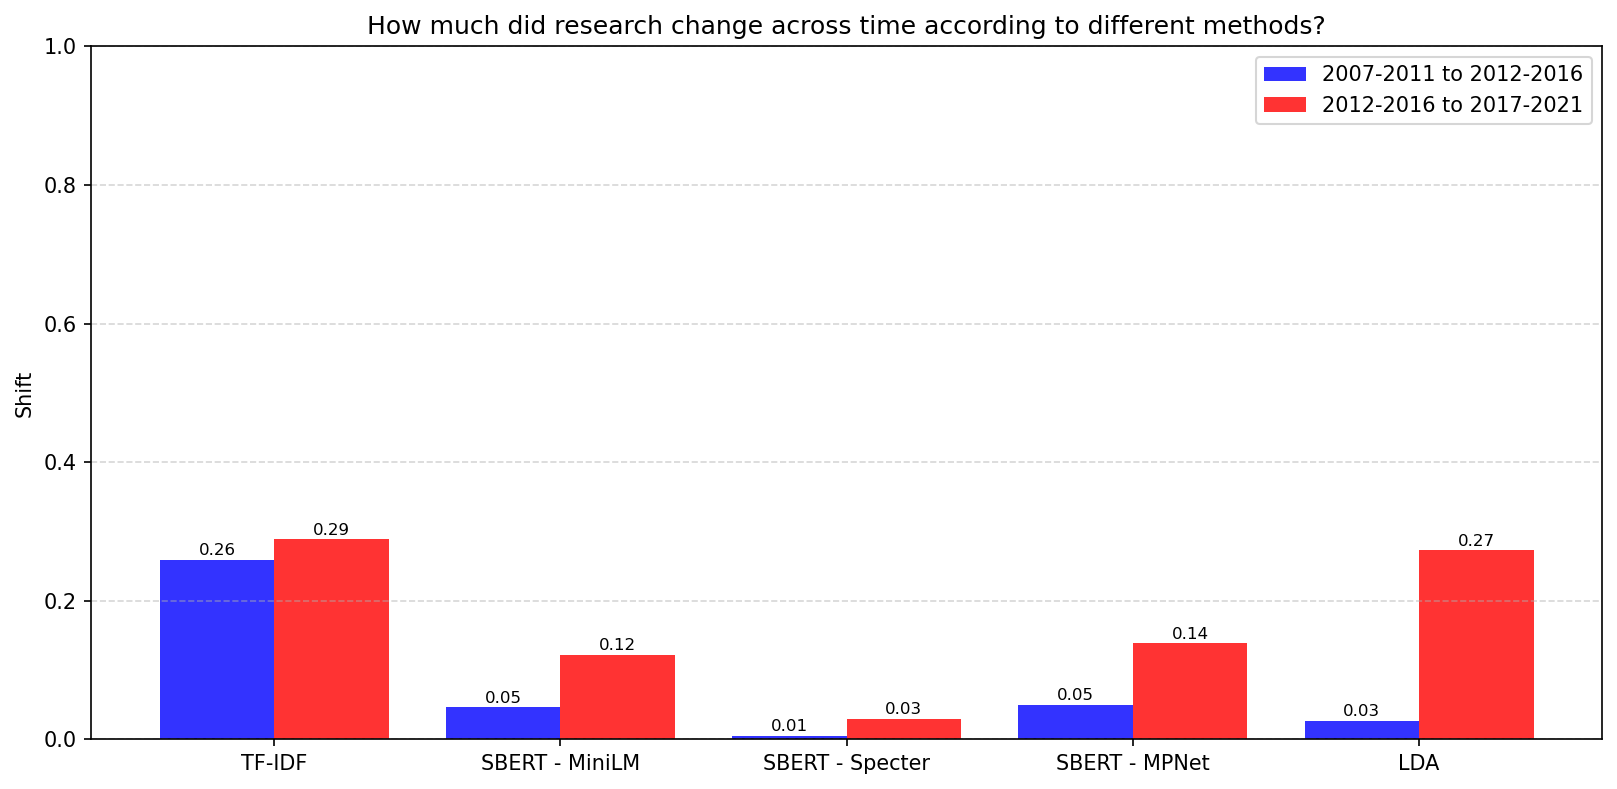
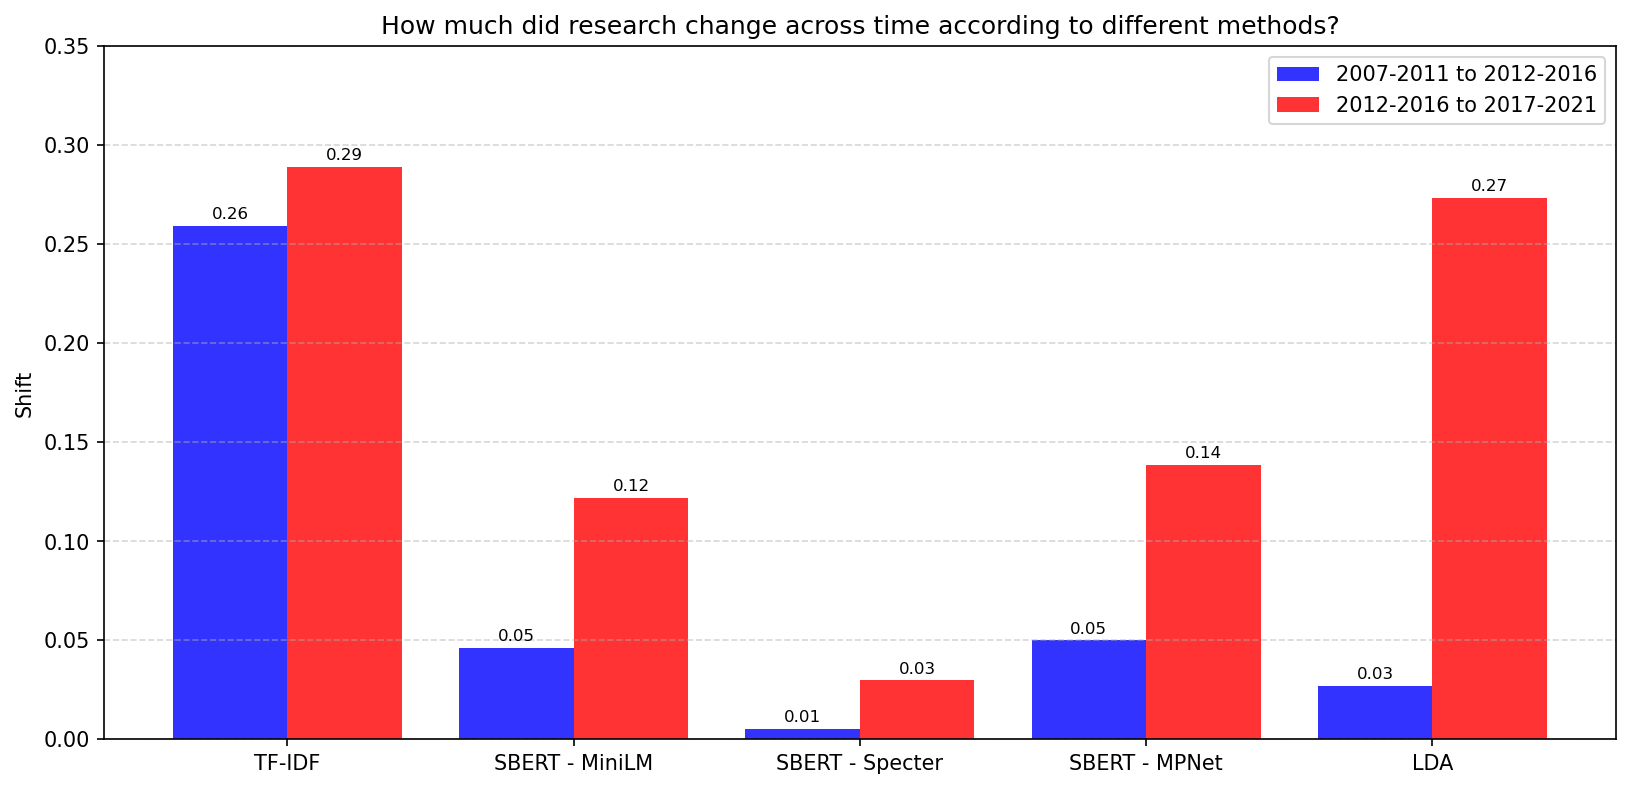
Updates from Overleaf

diff --git a/Report/coursework_report.tex b/Report/coursework_report.tex
@@ -20,9 +20,9 @@
 \author{%
   Nithya Dharshini Uthayasankar \\ 2789572 \And
   Rohan Bhardwaj \\ 2827658\And
-  Clarence Zhen Jin Tan\And
-  Lingjuan Shu \And
-  Taojie Chen \\[4pt]
+  Clarence Zhen Jin Tan\\ 2828537 \And
+  Lingjuan Shu \\ 2739919 \And
+  Taojie Chen \\ 2764623 \\ [4pt]
   Department of Data Science,
   University of Bristol
 }
@@ -42,7 +42,7 @@ This makes AI-related scientific literature a useful source for analysis especia
 To efficiently analyse the scientific abstracts, this project has employed comparative corpus analysis so that changes in vocabulary, dominant methods, and research contributions can be efficiently examined over time. Firstly, datasets related to ML, NLP and AI have been obtained from the HuggingFace arXiv abstracts dataset which contains useful metadata like abstracts and publication years \cite{huggingfaceGfissorearxivabstracts2021Datasets}.
 The corpus contains 27121 abstracts and has been carried for preprocessing to better compare the changes in research across the different periods, whereby the corpus has been divided into three five-year periods since research in artificial intelligence only surged especially after 2010 \cite{cao2026decreasing}.
 The period 2007-2011 contains 1,268 abstracts , the period 2012-2016 contains 5,542 abstracts, and the period 2017-2021 contains 20311 abstracts. This grouping allows the early, middle, and more recent stages of development in research related to AI to be compared.
-The Initial analysis of the dataset reveals frequencies of terms associated with AI increases over time. For instance, as later shown in Figure~\ref{fig:lda_topics} it reveals that the abstracts with terms associated with optimisation, probabilistic modelling and statistical approaches in pre-2017 while post-2017 shows an increase in abstracts with terms associated with neural-based, language-based, and learning-based approaches. Hence, this analysis concludes how the research areas in AI have been shifted over the years and how the abstracts in later periods have reflected the rise of deep learning and language-based methods \cite{feng2024evolution}. 
+The Initial analysis of the dataset reveals frequencies of terms associated with AI increases over time. For instance, as shown in Figure~\ref{fig:lda_topics} it reveals that the abstracts with terms associated with optimisation, probabilistic modelling and statistical approaches in pre-2017 while post-2017 shows an increase in abstracts with terms associated with neural-based, language-based, and learning-based approaches. Hence, this analysis concludes how the research areas in AI have been shifted over the years and how the abstracts in later periods have reflected the rise of deep learning and language-based methods \cite{feng2024evolution}. 
 The aim of this project would be to use abstracts as evidence to determine how research related to AI has changed the topic focus and communication over time. The analysis investigates how research attention, scientific problems and terminologies shifted across the three periods. Instead of treating change based on increase or decrease in the term frequency, the project determines if the abstracts have shown significant change in terms of methods, topics and contributions being emphasised by the researchers. Hence, shifts in research topics and scientific problems can be compared across the period to show how AI, ML and NLP have evolved from 2007 to 2021.
 To address the aim, this project compares several text analytics approaches that provide different findings from the same corpus. For instance, prominent and terms in a specific period would be identified through vocabulary-based methods while abstracts from different periods would be examined through semantic and topic-based methods to determine if research focus has been different across the periods. The findings would then be evaluated and compared to assess whether the different methods would reveal insights with similar or different patterns of change. Overall, this project seeks to answer two research questions which is how did the topic focus and communication relating to AI, ML and NLP change between 2007 and 2021, and how do the different text analytics methods affect the insights derived from the same corpus?
 
@@ -52,7 +52,7 @@ To address the aim, this project compares several text analytics approaches that
 \subsection{Pipeline Overview and Baseline}
 \begin{figure}[ht]
     \centering
-    \includegraphics[width=0.90\linewidth]{Report/figures/Comparative_Corpus_Analysis_Pipeline.png}
+    \includegraphics[width=0.70\linewidth]{Report/figures/Comparative_Corpus_Analysis_Pipeline.png}
     \caption{End-to-end analysis pipeline. Text representations feed into two axes of experimentation: representation type (Axis~1) and period-comparison method (Axis~2).}
     \label{fig:pipeline}
 \end{figure}
@@ -174,7 +174,7 @@ Text representation methods for \texttt{sklearn}~\cite{sklearn} TF-IDF and LDA; 
 \subsection{Results}
 
 \subsubsection{Axis~1: Centroid Distance}
-Table~\ref{tab:centroid_distances_and_silhouette_score} and Figure~\ref{fig:centroid_combined} report centroid distances between successive periods for all five representations.
+Table~\ref{tab:centroid_distances_and_silhouette_score} and Figure~\ref{fig:centroid_bar} report centroid distances between successive periods for all five representations.
 % \begin{table}[ht]
 % \centering
 % \caption{Centroid distances between successive temporal periods. TF-IDF and SBERT use cosine distance; LDA uses Euclidean distance in topic-proportion space. Mean shift = average across both transitions.}
@@ -213,35 +213,35 @@ LDA ($K{=}12$)               & 0.0270 & 0.2733 & 0.1502 & 0.0029 \\
 \end{tabular}}
 \end{table}
 
-% \begin{figure}[ht]
-%     \centering
-%     \includegraphics[width=\linewidth]{Report/figures/axis1_grouped_bar_chart.png}
-%     \caption{Centroid distances between consecutive period pairs for all five methods. Blue bars = 2007-2011 to 2012-2016 transition; red bars = 2012-2016 to 2017-2021 transition. Every method records a larger shift in the second transition.}
-%     \label{fig:centroid_bar}
-% \end{figure}
+\begin{figure}[ht]
+    \centering
+    \includegraphics[width=\linewidth]{Report/figures/axis1_grouped_bar_chart.png}
+    \caption{Centroid distances between consecutive period pairs for all five methods. Blue bars = 2007-2011 to 2012-2016 transition; red bars = 2012-2016 to 2017-2021 transition. Every method records a larger shift in the second transition.}
+    \label{fig:centroid_bar}
+\end{figure}
 
 There are two recurring features in all 5 of the methods. The first recurring feature is that each method recorded a larger change from 2012-2016 to 2017-2021 than from 2007-2011 to 2012-2016, thus verifying that the rate of change accelerated due to the Transformer (2017), BERT (2018) and GPT-3 (2020). The second recurring feature is that the ranking of mean shift (TF-IDF > LDA > SBERT-MPNet > SBERT-MiniLM > SBERT-SPECTER) represents the various geometric properties of each space, rather than a measure of their sensitivity to real change. TF-IDF's large, sparse 5,000-dimensional vocabulary space amplifies cosine distances, while SBERT's dense embeddings reduce them.
 The most remarkable single finding is LDA's near-zero first-transition distance (0.0270) followed by its large second-transition distance (0.2733), a tenfold increase. The topics are largely unchanged from 2007-2011 to 2012-2016, and it is the vocabulary that is altered as captured by TF-IDF due to the deep-learning trend, rather than the thematic domains. However, the change in thematic domains is substantial, since the 2016 Transformer and BERT research rewrote the entire field of NLP.
 
-% \begin{figure}[ht]
-%     \centering
-%     \includegraphics[width=\linewidth]{Report/figures/axis1_transition_year_range_comparison.png}
-%     \caption{Difference in centroid distance between the two transitions (second minus first) for each method. All bars confirm the 2012-2016 to 2017-2021 transition was larger across every representation type. LDA shows the greatest relative difference (+0.2463).}
-%     \label{fig:transition_diff}
-% \end{figure}
-% Combining to save space.
 \begin{figure}[ht]
     \centering
-    \subfloat[Centroid distances per transition]{%
-        \includegraphics[width=0.48\linewidth]{Report/figures/axis1_grouped_bar_chart.png}
-        \label{fig:centroid_bar}}
-    \hfill
-    \subfloat[Difference between transitions]{%
-        \includegraphics[width=0.48\linewidth]{Report/figures/axis1_transition_year_range_comparison.png}
-        \label{fig:transition_diff}}
-    \caption{Axis~1 centroid distance results. (a) Distances between consecutive period pairs for all five methods; blue = first transition, red = second. (b) Difference (second minus first) confirming the 2012--2016 to 2017--2021 transition is larger across every method.}
-    \label{fig:centroid_combined}
+    \includegraphics[width=\linewidth]{Report/figures/axis1_transition_year_range_comparison.png}
+    \caption{Difference in centroid distance between the two transitions (second minus first) for each method. All bars confirm the 2012-2016 to 2017-2021 transition was larger across every representation type. LDA shows the greatest relative difference (+0.2463).}
+    \label{fig:transition_diff}
 \end{figure}
+% Combining to save space.
+% \begin{figure}[ht]
+%     \centering
+%     \subfloat[Centroid distances per transition]{%
+%         \includegraphics[width=0.48\linewidth]{Report/figures/axis1_grouped_bar_chart.png}
+%         \label{fig:centroid_bar}}
+%     \hfill
+%     \subfloat[Difference between transitions]{%
+%         \includegraphics[width=0.48\linewidth]{Report/figures/axis1_transition_year_range_comparison.png}
+%         \label{fig:transition_diff}}
+%     \caption{Axis~1 centroid distance results. (a) Distances between consecutive period pairs for all five methods; blue = first transition, red = second. (b) Difference (second minus first) confirming the 2012--2016 to 2017--2021 transition is larger across every method.}
+%     \label{fig:centroid_combined}
+% \end{figure}
 
 \subsubsection{Axis~1: Silhouette Scores}
 
@@ -290,34 +290,34 @@ The large amount of overlap between individual clouds in both spaces confirms ou
 
 \subsubsection{Axis~1: LDA Topic Distribution}
 
-% \begin{figure}[ht]
-%     \centering
-%     \includegraphics[width=\linewidth]{Report/figures/axis1_lda_topic_distribution.png}
-%     \caption{Stacked bar chart of LDA topic proportions per period. Each colour represents one of the 12 topics, labelled by its three most probable words. The shift from 2012-2016 to 2017-2021 is the dominant transition.}
-%     \label{fig:lda_topics}
-% \end{figure}
-
-% \begin{figure}[ht]
-%     \centering
-%     \includegraphics[width=\linewidth]{Report/figures/LDA_topics_shift.png}
-%     \caption{Net change in LDA topic proportion from 2007-2011 to 2017-2021. Green bars = rising topics; red bars = declining topics. T4 (search/optimisation/optimal) and 
-%     T10 (inference/logic/probabilistic) show the largest declines; T9 (language/translation/languages) and T8 (neural/network/networks) show the largest rises.}
-%     \label{fig:lda_change}
-% \end{figure}
-% Here, we are combining 2 figures to fit number of pages
 \begin{figure}[ht]
     \centering
-    \subfloat[Topic proportions per period]{%
-        \includegraphics[width=0.48\linewidth]{Report/figures/axis1_lda_topic_distribution.png}
-        \label{fig:lda_topics}}
-    \hfill
-    \subfloat[Net topic change 2007-2011 to 2017-2021]{%
-        \includegraphics[width=0.48\linewidth]{Report/figures/LDA_topics_shift.png}
-        \label{fig:lda_change}}
-    \caption{LDA topic analysis. (a) Stacked bar chart of topic proportions per period; each colour is one of 12 topics labelled by its three most probable words. (b) Net change in topic proportion: green = rising, red = declining. T4 (search/optimisation/optimal) and 
-    T10 (inference/logic/probabilistic) show the largest declines; T9 (language/translation/languages) and T8 (neural/network/networks) show the largest rises.}
-    \label{fig:lda_combined}
+    \includegraphics[width=\linewidth]{Report/figures/axis1_lda_topic_distribution.png}
+    \caption{Stacked bar chart of LDA topic proportions per period. Each colour represents one of the 12 topics, labelled by its three most probable words. The shift from 2012-2016 to 2017-2021 is the dominant transition.}
+    \label{fig:lda_topics}
 \end{figure}
+
+\begin{figure}[ht]
+    \centering
+    \includegraphics[width=\linewidth]{Report/figures/LDA_topics_shift.png}
+    \caption{Net change in LDA topic proportion from 2007-2011 to 2017-2021. Green bars = rising topics; red bars = declining topics. T4 (search/optimisation/optimal) and 
+    T10 (inference/logic/probabilistic) show the largest declines; T9 (language/translation/languages) and T8 (neural/network/networks) show the largest rises.}
+    \label{fig:lda_change}
+\end{figure}
+% Here, we are combining 2 figures to fit number of pages
+% \begin{figure}[ht]
+%     \centering
+%     \subfloat[Topic proportions per period]{%
+%         \includegraphics[width=0.48\linewidth]{Report/figures/axis1_lda_topic_distribution.png}
+%         \label{fig:lda_topics}}
+%     \hfill
+%     \subfloat[Net topic change 2007-2011 to 2017-2021]{%
+%         \includegraphics[width=0.48\linewidth]{Report/figures/LDA_topics_shift.png}
+%         \label{fig:lda_change}}
+%     \caption{LDA topic analysis. (a) Stacked bar chart of topic proportions per period; each colour is one of 12 topics labelled by its three most probable words. (b) Net change in topic proportion: green = rising, red = declining. T4 (search/optimisation/optimal) and 
+%     T10 (inference/logic/probabilistic) show the largest declines; T9 (language/translation/languages) and T8 (neural/network/networks) show the largest rises.}
+%     \label{fig:lda_combined}
+% \end{figure}
 
 The LDA topic model produces the strongest qualitative description of \emph{what} changed. The topics Figure~\ref{fig:lda_topics} of search/optimisation/optimal (T4) and inference/logic/probabilistic (T10), which dominated 2007--2011 largely disappeared by 2017-2021 (shown in Figure \ref{fig:lda_change}). This directly shows the decline of traditional AI technologies - constraint satisfaction, logic programming, and Bayesian networks, in favour of an end-to-end neural approach. The most prominent changes are the emergence of the neural/network/networks topic (T8), language/translation/languages topic (T9), and question/dialogue/generation topic (T6). T9's increased prominence is quite evident as it was driven by neural machine translation (2016) and the emergence of BERT (2018) and GPT-3 (2020) during or just prior to the 2017-2021 time period. These transitions in topic distribution are invisible to both TF-IDF and SBERT centroid analysis and highlight the unique benefit of LDA, as it identified \emph{what} changed rather than just \emph{how much} changed.
 
@@ -328,9 +328,8 @@ The LDA topic model produces the strongest qualitative description of \emph{what
     \subfloat[2007--2011]{%
         \includegraphics[width=0.32\linewidth]{Report/figures/Axis2_comparison1.png}
         \label{fig:axis2_2007}}
-    \hfill
     \subfloat[2012--2016]{%
-        \includegraphics[width=0.32\linewidth]{Report/figures/Axis2_comparison2.png}
+        \includegraphics[width=0.33\linewidth]{Report/figures/Axis2_comparison2.png}
         \label{fig:axis2_2012}}
     \hfill
     \subfloat[2017--2021]{%
@@ -387,7 +386,7 @@ The corpus is restricted to English-language ArXiv abstracts, specifically in AI
 
 \section{Conclusion}
 We analysed trends over time in the abstracts of research on AI, ML and NLP across three different periods (2007–2011, 2012–2016, and 2017–2021) to understand the evolution of the field. Using a two-dimensional analytical framework, we compared text representation methods (first axis) with methodological extraction methods (second axis). Finally, our aim is to investigate how these choices of representation and methodology influence perceptions of shifts in academic paradigm.
-The results we derived from Axis 1 partially confirmed our initial hypothesis about lexical sensitivity and semantic sensitivity. As predicted, compared to the relatively smooth trajectory seen with SBERT (0.1245), TF-IDF detected a more significant centroid distance between neighbouring periods (peaking at 0.2889 between 2012–2016 and 2017–2021), demonstrating TF-IDF's high sensitivity to the sudden introduction of new vocabulary. However, the silhouette scores for both TF-IDF (0.0015) and SBERT (0.0559) were close to 0. This suggests that, although the vocabulary changed between periods, individual abstracts showed high diversity during the same period and could not be clearly classified by time. This reflects the continues evolution of concepts rather than distinct ,unrelated periods.
+The results we derived from Axis 1 partially confirmed our initial hypothesis about lexical sensitivity and semantic sensitivity. As predicted, compared to the relatively smooth trajectory seen with SBERT, TF-IDF detected a more significant centroid distance between neighbouring periods (peaking at 0.2889 between 2012–2016 and 2017–2021), demonstrating TF-IDF's high sensitivity to the sudden introduction of new vocabulary. However, the silhouette scores for both TF-IDF (0.0015) and SBERT (0.0559) were close to 0. This suggests that, although the vocabulary changed between periods, individual abstracts showed high diversity during the same period and could not be clearly classified by time. This reflects the continues evolution of concepts rather than distinct ,unrelated periods.
 For Axis 2, the comparison between descriptive and discriminative methods confirmed our hypothesis: the period-specific classifiers can provide more period-specific insights. While TextRank revealed generalities that remained highly constant across different periods, such as 'learning' and 'neural', our logistic regression classifier successfully identified highly comparative features.
 In summary, the classifier identified terms such as pre-trained (+3.30), deep learning (+3.28), graph neural (+2.62) and federated learning (+2.55) as key positive features. These feature were the primary drivers of classification between 2017 and 2021. However, these terms did not appear in the common top level keywords of TextRank. This finding is further corroborated by our framework’s heatmap, which visually captures the distinct paradigm shift towards applications and extended architectures observed in the final period.
 Although these findings were observed, the experimental process revealed several methodological limitations. LDA Topic modelling is influenced by the value of $K$ and though we chose $K=12$ by perplexity, individual topic labels lack stability between different runs, as a limitation mentioned in our error analysis. Further, the sustained low profile coefficients observed across all models highlight a fundamental limitation:Within AI datasets, the temporal assignment of data is not a primary source of variation. Instead, inherent differences across subfields such as NLP and computer vision tend to dominate pure temporal drift effects, which in turn obscure clear temporal boundaries.
